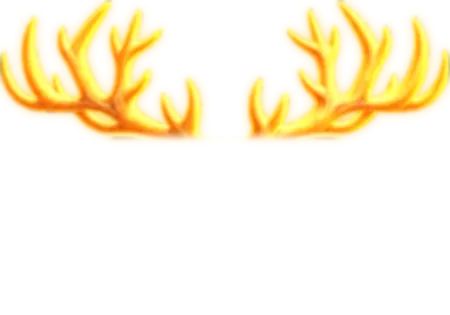
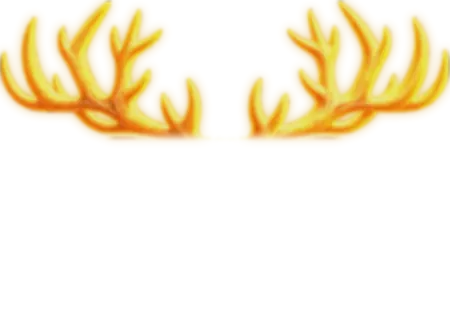
Deer: antler glow a deeper gold (15% toward brown) and 45% dimmer
Claude-Session: https://claude.ai/code/session_01FBZjrTKnNa2Vuqd65VM1Jf

diff --git a/frontend/src/components/site/DeerRig.jsx b/frontend/src/components/site/DeerRig.jsx
@@ -205,7 +205,7 @@ export const DeerRig = ({ refFn, load, onLoad }) => {
               <div key={h.key} ref={(el) => (headRefs.current[i] = el)} className="absolute inset-0" style={{ opacity: 0, visibility: "hidden" }}>
                 <div className="absolute" style={{ left: `${h.box[0]}%`, top: `${h.box[1]}%`, width: `${h.box[2]}%` }}>
                   <img src={load ? P(`head-${h.key}`) : undefined} alt="" className="block w-full max-w-none" />
-                  <img src={load ? P(`antlers-${h.key}-glow`) : undefined} alt="" aria-hidden className="deer-antler-glow absolute inset-0 h-full w-full" />
+                  <img src={load ? `${P(`antlers-${h.key}-glow`)}?v=2` : undefined} alt="" aria-hidden className="deer-antler-glow absolute inset-0 h-full w-full" />
                 </div>
                 <Motes tips={h.tips} />
               </div>
@@ -215,7 +215,7 @@ export const DeerRig = ({ refFn, load, onLoad }) => {
               <div key={h.key} ref={(el) => (headRefs.current[i] = el)} className="absolute inset-0">
                 <div ref={sideRef} className="absolute inset-0" style={{ transformOrigin: "74% 27.5%" }}>
                   <img src={load ? P("head") : undefined} alt="" className="absolute inset-0 h-full w-full" />
-                  <img src={load ? P("antlers-glow") : undefined} alt="" aria-hidden className="deer-antler-glow absolute inset-0 h-full w-full" />
+                  <img src={load ? `${P("antlers-glow")}?v=2` : undefined} alt="" aria-hidden className="deer-antler-glow absolute inset-0 h-full w-full" />
                   <Motes tips={h.tips} />
                   <img src={load ? P("ear") : undefined} alt="" className="deer-ear absolute inset-0 h-full w-full" />
                 </div>

diff --git a/frontend/src/index.css b/frontend/src/index.css
@@ -904,7 +904,7 @@ html.intro-playing [data-testid="site-navbar"] { opacity: 0; }
   mix-blend-mode: screen;
   animation: deer-antler-glow 4s ease-in-out infinite;
 }
-@keyframes deer-antler-glow { 0%, 100% { opacity: 0.29; } 50% { opacity: 0.55; } }
+@keyframes deer-antler-glow { 0%, 100% { opacity: 0.16; } 50% { opacity: 0.3; } }
 /* motes of light rising off the antler tips, each trailing a faint line */
 .deer-mote {
   position: absolute; width: 1.4%; aspect-ratio: 1; border-radius: 50%;
